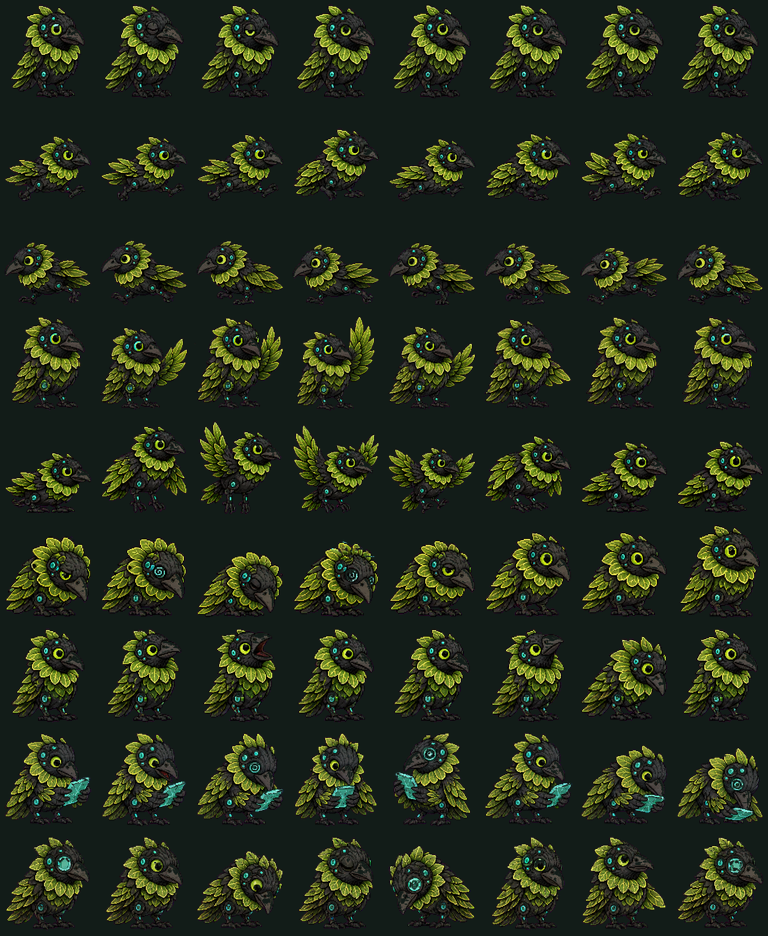
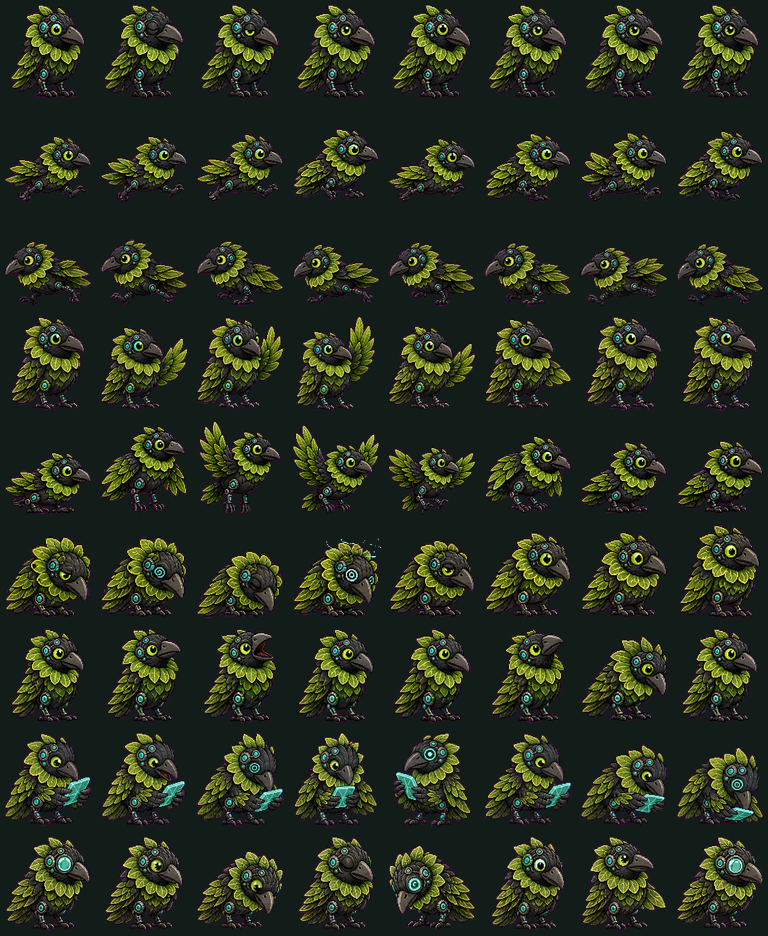
Fix CabbageCrow beak transparency

diff --git a/src/pet/assetPackage.test.ts b/src/pet/assetPackage.test.ts
@@ -1,5 +1,119 @@
 import { readFileSync } from "node:fs";
+import { inflateSync } from "node:zlib";
 import { describe, expect, it } from "vitest";
+
+type PngChunk = {
+  type: string;
+  data: Buffer;
+};
+
+type RgbaPng = {
+  width: number;
+  height: number;
+  alpha: Uint8Array;
+};
+
+function readPngChunks(path: string): PngChunk[] {
+  const png = readFileSync(path);
+  const signature = png.subarray(0, 8);
+  expect(signature.equals(Buffer.from([137, 80, 78, 71, 13, 10, 26, 10]))).toBe(true);
+
+  const chunks: PngChunk[] = [];
+  let offset = 8;
+  while (offset < png.length) {
+    const length = png.readUInt32BE(offset);
+    const type = png.toString("ascii", offset + 4, offset + 8);
+    const dataStart = offset + 8;
+    chunks.push({ type, data: png.subarray(dataStart, dataStart + length) });
+    offset = dataStart + length + 4;
+  }
+  return chunks;
+}
+
+function paethPredictor(left: number, up: number, upperLeft: number): number {
+  const estimate = left + up - upperLeft;
+  const leftDistance = Math.abs(estimate - left);
+  const upDistance = Math.abs(estimate - up);
+  const upperLeftDistance = Math.abs(estimate - upperLeft);
+
+  if (leftDistance <= upDistance && leftDistance <= upperLeftDistance) {
+    return left;
+  }
+  if (upDistance <= upperLeftDistance) {
+    return up;
+  }
+  return upperLeft;
+}
+
+function readRgbaPng(path: string): RgbaPng {
+  const chunks = readPngChunks(path);
+  const ihdr = chunks.find((chunk) => chunk.type === "IHDR")?.data;
+  if (!ihdr) {
+    throw new Error("PNG is missing IHDR");
+  }
+
+  const width = ihdr.readUInt32BE(0);
+  const height = ihdr.readUInt32BE(4);
+  const bitDepth = ihdr.readUInt8(8);
+  const colorType = ihdr.readUInt8(9);
+  const interlace = ihdr.readUInt8(12);
+
+  expect(bitDepth).toBe(8);
+  expect(colorType).toBe(6);
+  expect(interlace).toBe(0);
+
+  const bytesPerPixel = 4;
+  const stride = width * bytesPerPixel;
+  const compressed = Buffer.concat(
+    chunks.filter((chunk) => chunk.type === "IDAT").map((chunk) => chunk.data),
+  );
+  const inflated = inflateSync(compressed);
+  const alpha = new Uint8Array(width * height);
+  let sourceOffset = 0;
+  let alphaOffset = 0;
+  let previous = Buffer.alloc(stride);
+
+  for (let y = 0; y < height; y += 1) {
+    const filter = inflated[sourceOffset];
+    sourceOffset += 1;
+    const scanline = Buffer.from(inflated.subarray(sourceOffset, sourceOffset + stride));
+    sourceOffset += stride;
+
+    for (let x = 0; x < stride; x += 1) {
+      const left = x >= bytesPerPixel ? scanline[x - bytesPerPixel] : 0;
+      const up = previous[x];
+      const upperLeft = x >= bytesPerPixel ? previous[x - bytesPerPixel] : 0;
+
+      if (filter === 1) {
+        scanline[x] = (scanline[x] + left) & 0xff;
+      } else if (filter === 2) {
+        scanline[x] = (scanline[x] + up) & 0xff;
+      } else if (filter === 3) {
+        scanline[x] = (scanline[x] + Math.floor((left + up) / 2)) & 0xff;
+      } else if (filter === 4) {
+        scanline[x] = (scanline[x] + paethPredictor(left, up, upperLeft)) & 0xff;
+      } else if (filter !== 0) {
+        throw new Error(`Unsupported PNG filter ${filter}`);
+      }
+    }
+
+    for (let x = 3; x < stride; x += bytesPerPixel) {
+      alpha[alphaOffset] = scanline[x];
+      alphaOffset += 1;
+    }
+    previous = scanline;
+  }
+
+  return { width, height, alpha };
+}
+
+function readRgbaPngAlphaValues(path: string): Set<number> {
+  return new Set(readRgbaPng(path).alpha);
+}
+
+function getAlphaAt(png: RgbaPng, x: number, y: number): number {
+  return png.alpha[y * png.width + x];
+}
 
 describe("CabbageCrow asset package", () => {
   it("uses generated row strips rather than the old all-in-one grid", () => {
@@ -30,5 +144,17 @@ describe("CabbageCrow asset package", () => {
     expect(validation.atlasHeight).toBe(1872);
     expect(validation.cellWidth).toBe(192);
     expect(validation.cellHeight).toBe(208);
+  });
+
+  it("uses solid sprite alpha with no semi-transparent color pixels", () => {
+    const alphaValues = readRgbaPngAlphaValues("public/pets/cabbagecrow/spritesheet.png");
+
+    expect([...alphaValues].sort((a, b) => a - b)).toEqual([0, 255]);
+  });
+
+  it("keeps the idle beak filled instead of keying out dark beak pixels", () => {
+    const spritesheet = readRgbaPng("public/pets/cabbagecrow/spritesheet.png");
+
+    expect(getAlphaAt(spritesheet, 137, 60)).toBe(255);
   });
 });

diff --git a/scripts/build_cabbagecrow_atlas.py b/scripts/build_cabbagecrow_atlas.py
@@ -22,7 +22,8 @@ ROWS = 9
 ATLAS_WIDTH = CELL_WIDTH * COLUMNS
 ATLAS_HEIGHT = CELL_HEIGHT * ROWS
 MAGENTA = np.array([255, 0, 255], dtype=np.int16)
-KEY_DISTANCE_THRESHOLD = 260
+KEY_DISTANCE_THRESHOLD = 210
+SOLID_ALPHA_THRESHOLD = 32
 
 ROW_STATES = [
     "idle",
@@ -199,6 +200,15 @@ def remove_detached_artifacts(sprite: Image.Image) -> Image.Image:
     return Image.fromarray(arr, "RGBA")
 
 
+def solidify_alpha(sprite: Image.Image) -> Image.Image:
+    arr = np.array(sprite.convert("RGBA"))
+    alpha = arr[:, :, 3]
+    opaque = alpha >= SOLID_ALPHA_THRESHOLD
+    arr[:, :, 3] = np.where(opaque, 255, 0).astype(np.uint8)
+    arr[~opaque, 0:3] = 0
+    return Image.fromarray(arr, "RGBA")
+
+
 def fit_sprite(sprite: Image.Image) -> Image.Image:
     max_width = 184
     max_height = 198
@@ -265,7 +275,7 @@ def main() -> None:
 
         for col in range(COLUMNS):
             raw_sprite = crop_generated_slot(row_source, col)
-            sprite = fit_sprite(remove_detached_artifacts(raw_sprite))
+            sprite = solidify_alpha(fit_sprite(remove_detached_artifacts(raw_sprite)))
             x = col * CELL_WIDTH + (CELL_WIDTH - sprite.width) // 2
             y = row_bottom - 8 - sprite.height
             y = max(row * CELL_HEIGHT + 4, min(y, row_bottom - sprite.height - 4))